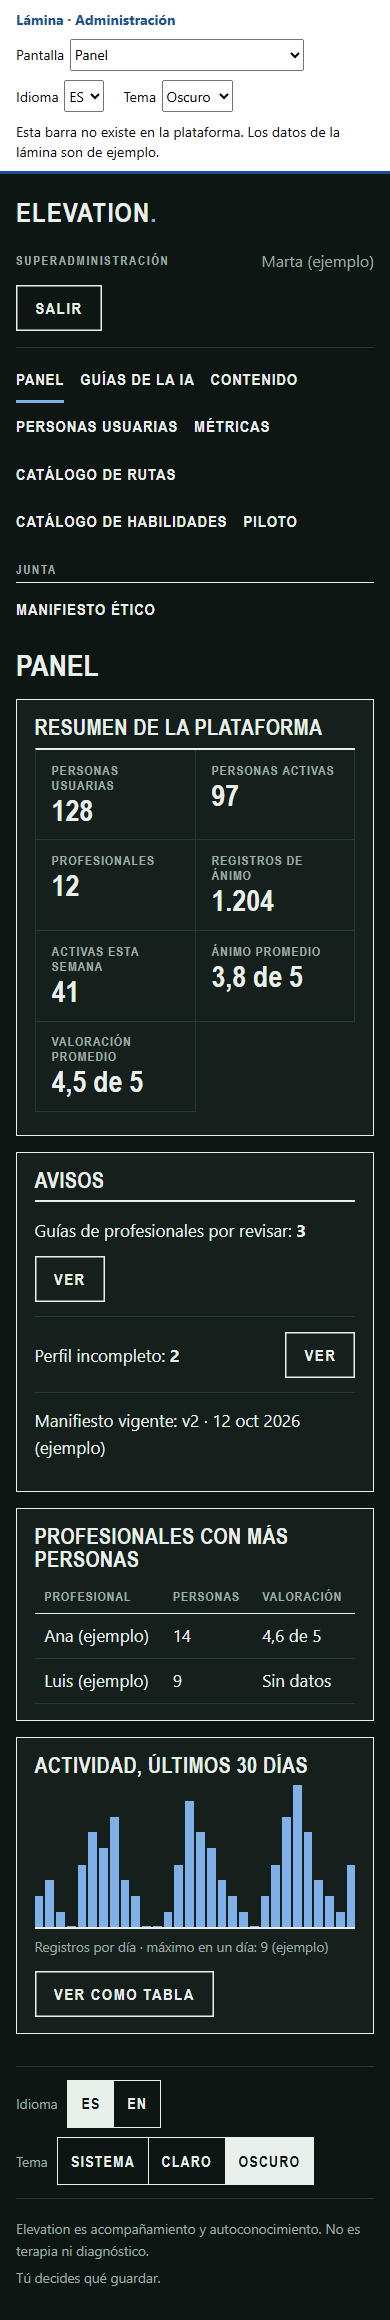
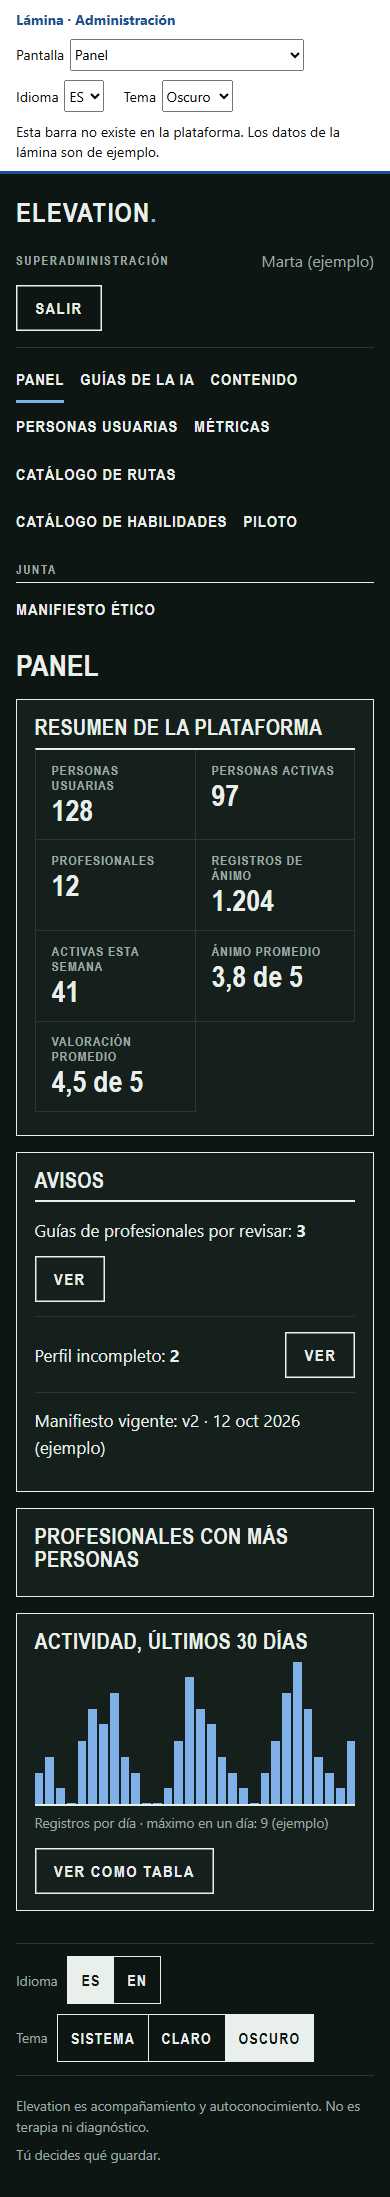
ES-310: maqueta de Personas usuarias (ES-186) en Cartografia, 7 escenas nuevas

Changed region(s): [[0.0, 0.0, 1.0, 0.9904], [0.8923, 0.5881, 0.9231, 0.619]]

diff --git a/docs/ux/es-administracion-cartografia/index.html b/docs/ux/es-administracion-cartografia/index.html
@@ -119,6 +119,13 @@
 .pg-chart{border-bottom:2px solid var(--cg-ink);height:9rem;display:flex;align-items:flex-end}
 .pg-bars{display:grid;grid-template-columns:repeat(30,minmax(0,1fr));gap:2px;align-items:end;width:100%;height:100%}
 .pg-bar{display:block;background:var(--cg-mark);min-height:1px}.pg-bar[style*="height:0%"]{height:1px!important}
+.pg-tabs{display:flex;flex-wrap:wrap;gap:.3rem;border-bottom:2px solid var(--cg-ink)}
+.pg-tab{background:none;border:0;border-radius:0;min-height:var(--cg-touch);padding:.55rem 1rem;margin-bottom:-2px;font:600 1rem var(--cg-font-cond);letter-spacing:.08em;text-transform:uppercase;color:var(--cg-ink);cursor:pointer;border-bottom:4px solid transparent}
+.pg-tab[aria-selected='true']{border-bottom-color:var(--cg-mark)}
+.pg-filters{display:flex;gap:1rem;flex-wrap:wrap;align-items:end;margin-bottom:.8rem}
+.pg-filters .cg-input{min-width:12rem}
+.pg-peoplecards{display:none}
+@media (max-width:640px){.pg-people,.pg-people+*{}.cg-tablewrap[aria-label]{display:none}.pg-peoplecards{display:block}.pg-filters .cg-input{min-width:0;width:100%}.pg-filters .cg-field{flex:1 1 100%}}
 /* marco de administración: barra lateral (shell.css) */
 .cg-role{font:600 .78rem var(--cg-font-cond);letter-spacing:.12em;text-transform:uppercase;color:var(--cg-muted)}
 .cg-who{color:var(--cg-muted);font-size:1rem;max-width:14rem;overflow:hidden;text-overflow:ellipsis;white-space:nowrap}
@@ -141,6 +148,7 @@
   <option value="panel">Panel</option><option value="panel-error">Panel · un aviso falla</option><option value="metrics">Métricas</option><option value="metrics-table">Métricas · como tabla</option>
   <option value="prompts">Guías de la IA</option><option value="prompts-dialog">Guías de la IA · diálogo publicar</option>
   <option value="routes">Catálogo de rutas</option><option value="routes-conflict">Catálogo de rutas · conflicto de edición</option>
+  <option value="users">Personas usuarias · Personas</option><option value="users-manage">Personas usuarias · gestionar</option><option value="users-delete">Personas usuarias · solicitar eliminación</option><option value="users-invite">Personas usuarias · invitar</option><option value="users-matching">Personas usuarias · Emparejamientos</option><option value="users-plans">Personas usuarias · Solicitudes de plan</option><option value="users-reject">Personas usuarias · rechazar solicitud</option>
  </select></label>
  <label>Idioma <select id="lang"><option value="es">ES</option><option value="en">EN</option></select></label>
  <label>Tema <select id="theme"><option value="system">Sistema</option><option value="light">Claro</option><option value="dark">Oscuro</option></select></label>
@@ -157,7 +165,7 @@ const tr=x=>lang==='es'?x:(EN[x]??x);
 const langSw=()=>`<div class="cg-lang" role="group" aria-label="${s().lang}">${['es','en'].map(l=>`<button type="button" class="cg-lang__btn" lang="${l}" aria-pressed="${lang===l}" data-lang="${l}">${l.toUpperCase()}</button>`).join('')}</div>`;
 const themeSw=()=>`<div class="cg-seg" role="group" aria-label="${s().theme}">${[['system','tsys'],['light','tlight'],['dark','tdark']].map(([v,x])=>`<button type="button" aria-pressed="${theme===v}" data-theme-set="${v}">${s()[x]}</button>`).join('')}</div>`;
 const prefs=()=>`<div class="cg-prefs" role="group" aria-label="${s().prefs}"><span class="cg-only-narrow cg-prefs__group"><span>${s().lang}</span>${langSw()}</span><span class="cg-prefs__group"><span>${s().theme}</span>${themeSw()}</span></div><footer class="cg-footer"><span>${s().foot1}</span><span>${s().foot2}</span></footer>`;
-const NAVMAP={panel:0,metrics:4,prompts:1,'prompts-dialog':1,routes:5,'routes-conflict':5,'metrics-table':4};
+const NAVMAP={users:3,'users-manage':3,'users-delete':3,'users-invite':3,'users-matching':3,'users-plans':3,'users-reject':3,panel:0,metrics:4,prompts:1,'prompts-dialog':1,routes:5,'routes-conflict':5,'metrics-table':4};
 function frame(inner){const a=NAVMAP[scene]??0;return `<div class="cg cg-frame" ${theme==='system'?'':`data-theme="${theme}"`}><a class="cg-skip" href="#main">${s().skip}</a>
  <header class="cg-header cg-header--admin"><a class="cg-brand" href="#h" aria-label="Elevation">Elevation<i>.</i></a>
  <div class="cg-header__end">${langSw()}<span class="cg-role">${s().role}</span><span class="cg-name cg-who">Marta ${s().ex}</span><button type="button" class="cg-btn cg-btn--ghost cg-signout">${s().out}</button></div></header>
@@ -188,6 +196,23 @@ function sc(){let h='';
   +(scene==='prompts-dialog'?dlg(tr('Publicar versión'),`<p>${tr('Se activa de inmediato para todas las personas. La versión anterior queda archivada.')}</p><div class="cg-field"><label class="cg-label" for="gt">${tr('Texto de la guía')}</label><textarea class="cg-textarea" id="gt" style="min-height:6rem"></textarea><p class="cg-hint">0 / ${tr('mínimo')} 50 · ${tr('Sin diagnóstico, sin tratamiento y sin promesas de empleo.')}</p></div>`,btn(tr('Cancelar'),'cg-btn--ghost')+btn(tr('Publicar ahora'))):'')}
  if(scene.startsWith('routes')){const c=k(),cf=scene==='routes-conflict';h=head(c.title,'')+card(c.version+'s',`<div class="pg-actions" style="margin:0 0 .6rem">${btn(c.create,'','disabled aria-describedby="why"')}</div><p class="cg-hint" id="why">${c.draftExists} (${c.version} 4). <button type="button" class="cg-linkbtn">${c.openDraft}</button></p><ul class="cg-items"><li class="cg-item"><div style="display:flex;justify-content:space-between;gap:.8rem;flex-wrap:wrap;align-items:center"><span>${c.version} 4 · <span class="cg-chip cg-chip--wait">${c.draft}</span></span>${btn(c.open,'cg-btn--ghost')}</div></li><li class="cg-item"><div style="display:flex;justify-content:space-between;gap:.8rem;flex-wrap:wrap;align-items:center"><span>${c.version} 3 · <span class="cg-chip cg-chip--ok">✓ ${c.published}</span></span>${btn(c.open,'cg-btn--ghost')}</div></li><li class="cg-item"><span>${c.version} 2 · <span class="cg-chip">${c.archived}</span></span></li></ul>`,'r1')
   +`<div style="margin-top:1rem">`+card(c.version+' 4 · '+c.draft,`<ul class="cg-items"><li class="cg-item"><div style="display:flex;justify-content:space-between;gap:.8rem;flex-wrap:wrap;align-items:center"><strong>rol_ejemplo ${ex()}</strong><span><span class="cg-chip cg-chip--ok">✓ ${c.complete}</span> <span class="cg-chip cg-chip--wait">${c.missing} (2)</span></span></div></li></ul>`+(cf?banner(c.itemChanged,1,`<button type="button" class="cg-linkbtn">${c.seeTheirs}</button>${btn(c.keepMine,'cg-btn--ghost')}`):'')+`<div class="pg-actions">${btn(c.save)}${btn(c.publishReview,'cg-btn--ghost','disabled')}</div><p class="cg-hint">${c.missingPub}</p>`,'r2')+`</div>`}
+ if(scene.startsWith('users')){
+  const tab=scene==='users-matching'?1:(scene==='users-plans'||scene==='users-reject')?2:0;
+  const tabs=`<div class="pg-tabs" role="tablist" aria-label="${tr('Secciones')}">${[[tr('Personas'),''],[tr('Emparejamientos'),' (2)'],[tr('Solicitudes de plan'),' (1)']].map(([n,c],i)=>`<button type="button" role="tab" class="pg-tab" aria-selected="${tab===i}" tabindex="${tab===i?0:-1}">${n}${c}</button>`).join('')}</div>`;
+  const chip=(t,cl='')=>`<span class="cg-chip ${cl}">${cl==='cg-chip--ok'?'✓ ':''}${t}</span>`;
+  const rows=[[ 'Ana',tr('Persona usuaria'),'Plan A',tr('Activa'),'cg-chip--ok','Marta'],['Luis',tr('Profesional'),'—',tr('Bloqueada'),'cg-chip--bad','—'],['Eva',tr('Persona usuaria'),'—',tr('Eliminación solicitada'),'cg-chip--wait','—']];
+  let body='';
+  if(tab===0)body=`<div class="pg-filters"><div class="cg-field" style="margin:0"><label class="cg-label" for="fr">${tr('Rol')}</label><select class="cg-input" id="fr"><option>${tr('Todos los roles')}</option></select></div><div class="cg-field" style="margin:0"><label class="cg-label" for="fe">${tr('Estado')}</label><select class="cg-input" id="fe"><option>${tr('Todos los estados')}</option></select></div><button type="button" class="cg-linkbtn">${tr('Limpiar filtros')}</button></div>
+   <div class="cg-tablewrap" tabindex="0" role="region" aria-label="${tr('Personas')}"><table class="cg-table pg-people"><thead><tr><th scope="col">${tr('Usuario')}</th><th scope="col">${tr('Rol')}</th><th scope="col">${tr('Plan')}</th><th scope="col">${tr('Estado')}</th><th scope="col">${tr('Profesional asignado')}</th><th scope="col">${tr('Acción')}</th></tr></thead><tbody>${rows.map(r=>`<tr><td><strong>${r[0]} ${ex()}</strong></td><td>${r[1]}</td><td>${r[2]}</td><td>${chip(r[3],r[4])}</td><td>${r[5]}</td><td>${btn(tr('Gestionar'),'cg-btn--ghost')}</td></tr>`).join('')}</tbody></table></div>
+   <ul class="cg-items pg-peoplecards">${rows.map(r=>`<li class="cg-item"><div style="display:flex;justify-content:space-between;gap:.6rem;flex-wrap:wrap;align-items:baseline"><strong>${r[0]} ${ex()}</strong>${chip(r[3],r[4])}</div><p class="cg-hint" style="margin:0">${r[1]} · ${tr('Plan')}: ${r[2]} · ${tr('Profesional asignado')}: ${r[5]}</p>${btn(tr('Gestionar'),'cg-btn--ghost')}</li>`).join('')}</ul>`;
+  if(tab===1)body=`<ul class="cg-items">${[1,2].map(i=>`<li class="cg-item"><strong>${lang==='es'?'Persona':'Person'} ${i} ${ex()}</strong><p class="cg-hint" style="margin:0">${tr('Área')}: ${lang==='es'?'ejemplo':'example'} · ${tr('Estilo')}: ${lang==='es'?'ejemplo':'example'} · ${tr('Idioma')}: ES</p><div class="cg-field" style="margin:.3rem 0 0"><label class="cg-label" for="pa${i}">${tr('Profesional asignado')}</label><select class="cg-input" id="pa${i}"><option>${tr('Sin asignar')}</option></select></div><div class="pg-actions">${btn(tr('Confirmar emparejamiento'))}</div></li>`).join('')}</ul>`;
+  if(tab===2)body=`<ul class="cg-items"><li class="cg-item"><div style="display:flex;justify-content:space-between;gap:.6rem;flex-wrap:wrap;align-items:baseline"><strong>Ana ${ex()}</strong><span class="pg-price">Plan B · $ ${ex()} ${tr('/mes')}</span></div><div class="pg-actions">${btn(tr('Aprobar'))}${btn(tr('Rechazar…'),'cg-btn--ghost')}</div></li></ul>`;
+  h=head(tr('Usuarios'),tr('Cuentas, emparejamientos y solicitudes de plan.'))+`<div class="pg-actions" style="margin:0 0 1rem">${btn(tr('Invitar persona'))}</div>`+tabs+`<div class="cg-card pg-card" role="tabpanel" style="margin-top:0;border-top:0">${body}</div>`;
+  if(scene==='users-manage')h+=dlg('Ana '+ex(),`<p class="cg-hint">${tr('Bloqueada hasta')} 15:30</p><div class="pg-actions" style="margin:0 0 .6rem">${btn(tr('Desbloquear'),'cg-btn--ghost')}${btn(tr('Enviar enlace de restablecimiento'),'cg-btn--ghost')}</div><div class="cg-field"><label class="cg-label" for="mp">${tr('Profesional asignado')}</label><select class="cg-input" id="mp"><option>${tr('Sin asignar')}</option></select></div><div class="pg-actions">${btn(tr('Asignar'),'cg-btn--ghost')}${btn(tr('Desactivar…'),'cg-btn--ghost')}${btn(tr('Solicitar eliminación…'),'cg-btn--danger')}</div>`,btn(tr('Cerrar'),'cg-btn--ghost'));
+  if(scene==='users-delete')h+=dlg(tr('Solicitar eliminación'),`<p>${tr('Esta acción no se puede deshacer.')}</p><div class="cg-field"><label class="cg-label" for="dn">${tr('Escribe el nombre exacto:')} Ana</label><input class="cg-input" id="dn" autocomplete="off"></div><p class="cg-error" role="alert" style="margin-top:.6rem">${tr('El nombre no coincide. Escríbelo exactamente como aparece.')}</p>`,btn(tr('Cancelar'),'cg-btn--ghost')+btn(tr('Solicitar eliminación'),'cg-btn--danger','disabled'));
+  if(scene==='users-invite')h+=dlg(tr('Invitar persona'),`<div class="cg-field"><label class="cg-label" for="ic">${tr('Correo')}</label><input class="cg-input" id="ic" type="email" placeholder="persona@ejemplo.invalid"></div><div class="cg-field"><label class="cg-label" for="ir">${tr('Rol')}</label><select class="cg-input" id="ir"><option>${tr('Persona usuaria')}</option></select></div><p class="cg-hint">${tr('El nombre solo se muestra aquí: la persona escribe el suyo al aceptar.')}</p>`,btn(tr('Cancelar'),'cg-btn--ghost')+btn(tr('Enviar invitación')));
+  if(scene==='users-reject')h+=dlg(tr('Rechazar solicitud'),`<div class="cg-field"><label class="cg-label" for="rm">${tr('Motivo (obligatorio)')}</label><textarea class="cg-textarea" id="rm" aria-invalid="true" style="min-height:5rem"></textarea><p class="cg-error">${tr('Escribe el motivo.')}</p></div>`,btn(tr('Cancelar'),'cg-btn--ghost')+btn(tr('Rechazar'),'cg-btn--danger'));
+ }
  return frame(h)}
 function render(){q('root').innerHTML=sc();document.documentElement.lang=lang;const dark=theme==='dark'||(theme==='system'&&matchMedia('(prefers-color-scheme: dark)').matches);document.body.style.background=dark?'#0e1613':'#e7ece8'}
 document.addEventListener('click',e=>{const x=e.target.closest('[data-lang],[data-theme-set]');if(!x)return;if(x.dataset.lang){lang=x.dataset.lang;q('lang').value=lang}else{theme=x.dataset.themeSet;q('theme').value=theme}render()});
